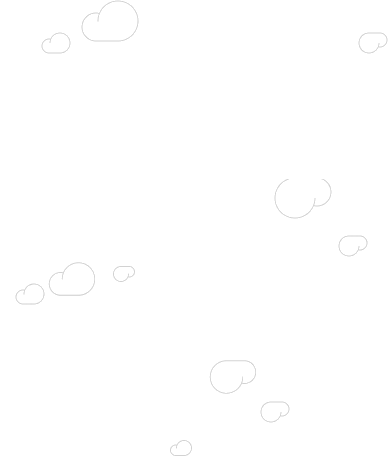
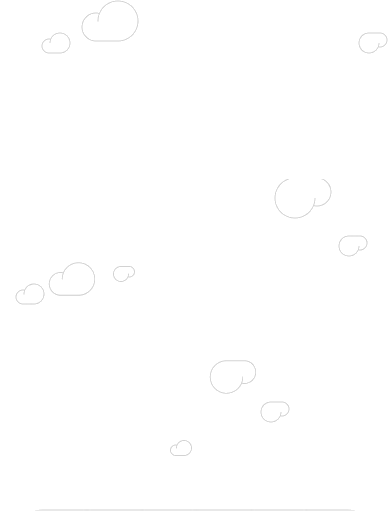
fix(reviews): the cloud cluster above the Continue pill
The layer stopped at frame y703 to stay clear of the pill, which cut the
cluster the frame draws at y714. Extending the extraction to y757 — the pill
starts at 759 — brings the cloud ink to 205..715 below the header rule and the
cluster tops to 205 / 382 / 440 / 565 / 645 / 714, matching the frame.

Claude-Session: https://claude.ai/code/session_01Gwu29W1Y9bGuWJCezMxp2b

diff --git a/app/reviews/new/WriteReviewForm.tsx b/app/reviews/new/WriteReviewForm.tsx
@@ -740,14 +740,14 @@ function ProductPhotoCard({
  * back over the page colour it reproduces the frame's clouds exactly.
  *
  * Frame coordinates, so MOBILE ONLY, like ProductStepDecor: the artwork spans
- * y247..702 and x15..387 of a 390-wide frame, which is 205px below the header
- * rule. There is no desktop frame for this step to place it against.
+ * y247..757 of a 390-wide frame — down to the row above the Continue pill,
+ * which starts at y759 — putting its top 205px below the header rule. There is no desktop frame for this step to place it against.
  */
 function RatingStepDecor() {
   return (
     <span
       aria-hidden="true"
-      className="pointer-events-none absolute -left-4 -right-4 -z-10 hidden h-[456px] select-none bg-[length:390px_456px] bg-top bg-no-repeat max-sm:block"
+      className="pointer-events-none absolute -left-4 -right-4 -z-10 hidden h-[511px] select-none bg-[length:390px_511px] bg-top bg-no-repeat max-sm:block"
       style={{
         // The artwork starts 205px below the header rule in the frame. Measured
         // on the deployed page, the layer landed 92px lower than that; the
